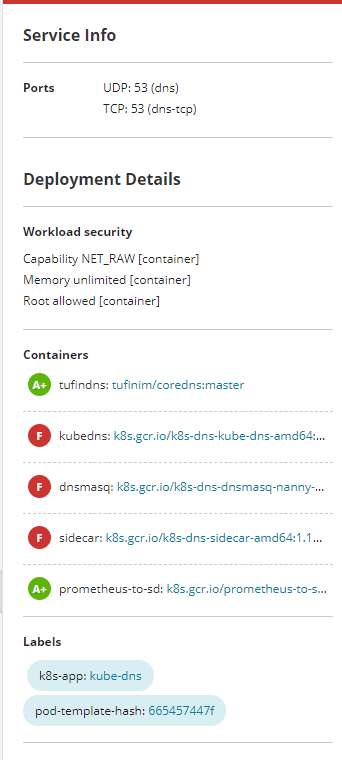
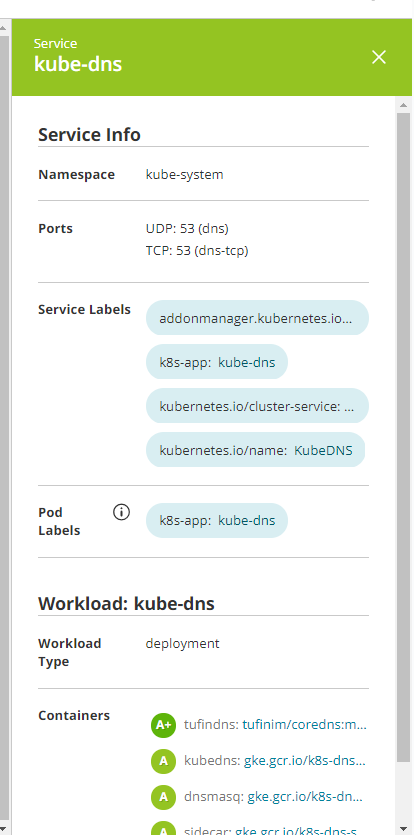
feature / epics / all ready for promote of next sunday

diff --git a/Content/Kubernetes/Services.htm b/Content/Kubernetes/Services.htm
@@ -9,7 +9,7 @@
         <MadCap:snippetBlock src="../Resources/TopicTemplates/Collateral/H2_Overview.flsnp" />
         <p>The services window displays all the services in your Kubernetes cluster from nodes to which <MadCap:variable name="local-orca.Product_S" /> has access:</p>
         <p>
-            <img src="../Kubernetes-Images/WindowServices2.png" class="ThumbnailPopup" />
+            <img src="../Kubernetes-Images/Screen_Services.png" class="ThumbnailPopup" />
         </p>
         <table style="mc-table-style: url('../Resources/TableStyles/PatternedRows.css');" class="TableStyle-PatternedRows" cellspacing="0">
             <col class="TableStyle-PatternedRows-Column-Regular" />
@@ -27,19 +27,19 @@
             <tbody>
                 <tr class="TableStyle-PatternedRows-Body-LightRows">
                     <td class="TableStyle-PatternedRows-BodyE-Regular-LightRows">Name</td>
-                    <td class="TableStyle-PatternedRows-BodyD-Regular-LightRows">name of the service</td>
+                    <td class="TableStyle-PatternedRows-BodyD-Regular-LightRows">Name of the service</td>
                 </tr>
                 <tr class="TableStyle-PatternedRows-Body-DarkRows">
                     <td class="TableStyle-PatternedRows-BodyE-Regular-DarkRows">Namespace</td>
-                    <td class="TableStyle-PatternedRows-BodyD-Regular-DarkRows">namespace in which the service is running</td>
+                    <td class="TableStyle-PatternedRows-BodyD-Regular-DarkRows">Namespace in which the service is running</td>
                 </tr>
                 <tr class="TableStyle-PatternedRows-Body-LightRows">
                     <td class="TableStyle-PatternedRows-BodyE-Regular-LightRows">Labels</td>
-                    <td class="TableStyle-PatternedRows-BodyD-Regular-LightRows">all labels defined for the service</td>
+                    <td class="TableStyle-PatternedRows-BodyD-Regular-LightRows">All labels defined for the service</td>
                 </tr>
                 <tr class="TableStyle-PatternedRows-Body-DarkRows">
                     <td class="TableStyle-PatternedRows-BodyE-Regular-DarkRows">Endpoints</td>
-                    <td class="TableStyle-PatternedRows-BodyD-Regular-DarkRows">all endpoints exposed by the service that go through an ingress controller</td>
+                    <td class="TableStyle-PatternedRows-BodyD-Regular-DarkRows">All endpoints exposed by the service that go through an ingress controller</td>
                 </tr>
                 <tr class="TableStyle-PatternedRows-Body-LightRows">
                     <td class="TableStyle-PatternedRows-BodyE-Regular-LightRows">Type</td>
@@ -55,11 +55,17 @@
                 </tr>
                 <tr class="TableStyle-PatternedRows-Body-DarkRows">
                     <td class="TableStyle-PatternedRows-BodyE-Regular-DarkRows">Ports</td>
-                    <td class="TableStyle-PatternedRows-BodyD-Regular-DarkRows">the service ports</td>
+                    <td class="TableStyle-PatternedRows-BodyD-Regular-DarkRows">The service ports</td>
                 </tr>
                 <tr class="TableStyle-PatternedRows-Body-LightRows">
-                    <td class="TableStyle-PatternedRows-BodyB-Regular-LightRows">Public IPs</td>
-                    <td class="TableStyle-PatternedRows-BodyA-Regular-LightRows">external IP addresses of the service </td>
+                    <td class="TableStyle-PatternedRows-BodyE-Regular-LightRows">Public IPs</td>
+                    <td class="TableStyle-PatternedRows-BodyD-Regular-LightRows">
+                        <p class="TableBodyText">External IP addresses of the service</p>
+                    </td>
+                </tr>
+                <tr class="TableStyle-PatternedRows-Body-DarkRows">
+                    <td class="TableStyle-PatternedRows-BodyB-Regular-DarkRows">Pod Labels</td>
+                    <td class="TableStyle-PatternedRows-BodyA-Regular-DarkRows">The labels that are specified in the service spec selector and therefore defined in all pods making up the service</td>
                 </tr>
             </tbody>
         </table>

diff --git a/Content/SecureCloud/WhatsNew.htm b/Content/SecureCloud/WhatsNew.htm
@@ -5,14 +5,18 @@
     </head>
     <body>
         <h1>What's New in <MadCap:variable name="local-iris.ProductName" /></h1>
-        <p class="SubHead1" MadCap:conditions="General.Exclude">Coming soon...</p>
+        <p class="SubHead1">28th February 2021</p>
         <table style="width: 100%;mc-table-style: url('../Resources/TableStyles/PatternedRows.css');" class="TableStyle-PatternedRows" cellspacing="0">
-            <col class="TableStyle-PatternedRows-Column-Regular" style="width: 237px;" MadCap:conditions="General.Exclude" />
-            <col class="TableStyle-PatternedRows-Column-Regular" MadCap:conditions="General.Exclude" />
+            <col class="TableStyle-PatternedRows-Column-Regular" style="width: 237px;" MadCap:conditions="" />
+            <col class="TableStyle-PatternedRows-Column-Regular" MadCap:conditions="" style="width: 397px;" />
+            <col class="TableStyle-PatternedRows-Column-Regular" MadCap:conditions="" />
             <thead>
                 <tr class="TableStyle-PatternedRows-Head-Header1">
                     <th class="TableStyle-PatternedRows-HeadE-Regular-Header1" style="font-weight: normal;">
                         <p class="TableHeading">Title</p>
+                    </th>
+                    <th class="TableStyle-PatternedRows-HeadE-Regular-Header1">
+                        <p class="TableHeading">How do I Get Here?</p>
                     </th>
                     <th class="TableStyle-PatternedRows-HeadD-Regular-Header1" style="font-weight: normal;">
                         <p class="TableHeading">Details</p>
@@ -21,14 +25,20 @@
             </thead>
             <tbody>
                 <tr class="TableStyle-PatternedRows-Body-LightRows">
-                    <td class="TableStyle-PatternedRows-BodyE-Regular-LightRows">sdfgsdfg</td>
-                    <td class="TableStyle-PatternedRows-BodyD-Regular-LightRows">
-                        <p>sdfgsdfg</p>
+                    <td class="TableStyle-PatternedRows-BodyE-Regular-LightRows"><MadCap:variable name="local.ProductName" /> RBAC </td>
+                    <td class="TableStyle-PatternedRows-BodyE-Regular-LightRows">
+                        <p>
+                            <MadCap:xref href="Users.htm">Users</MadCap:xref>
+                        </p>
                     </td>
+                    <td class="TableStyle-PatternedRows-BodyD-Regular-LightRows">Two additional roles added to view and manage <MadCap:variable name="local.Kubernetes" /> <MadCap:variable name="local.project" />s.</td>
                 </tr>
                 <tr class="TableStyle-PatternedRows-Body-DarkRows">
-                    <td class="TableStyle-PatternedRows-BodyB-Regular-DarkRows">sdfgsdfg</td>
-                    <td class="TableStyle-PatternedRows-BodyA-Regular-DarkRows">sdfsdfg</td>
+                    <td class="TableStyle-PatternedRows-BodyB-Regular-DarkRows">Pod labels</td>
+                    <td class="TableStyle-PatternedRows-BodyB-Regular-DarkRows"><a href="../Kubernetes/Services.htm">Services</a> and <a href="../Kubernetes/ServiceGraph.htm">Service Graph detail window</a> </td>
+                    <td class="TableStyle-PatternedRows-BodyA-Regular-DarkRows">
+                        <p>Pod labels (as defined in service spec selector) now shown</p>
+                    </td>
                 </tr>
             </tbody>
         </table>

diff --git a/Content/SecureCloud/Users.htm b/Content/SecureCloud/Users.htm
@@ -16,6 +16,8 @@
             <li>Global Admin - unlimited access to all <MadCap:variable name="local.ProductName" /> functions</li>
             <li>Global Viewer - view-only access to all <MadCap:variable name="local.ProductName" /> functions</li>
             <li>Cloud Account Viewer - view-only access to all or selected <MadCap:variable name="local.public cloud" /> <MadCap:variable name="local.Vendoraccount" />s </li>
+            <li>Cluster Owner - full management access to all or selected <MadCap:variable name="local.Kubernetes" /> <MadCap:variable name="local.project" />s</li>
+            <li>Cluster Viewer - view-only access to all or selected <MadCap:variable name="local.Kubernetes" /> <MadCap:variable name="local.project" />s</li>
         </ul>
         <MadCap:snippetBlock src="../Resources/TopicTemplates/Collateral/H2_Actions.flsnp" />
         <ul>
@@ -42,7 +44,8 @@
             </li>
             <li>
                 <p>Select a role </p>
-                <p>If role Cloud <span class="StatusOrValue">Account Viewer</span> is selected, you must specify at least one account to which the user will have access or specify <span class="StatusOrValue">All accounts</span>.</p>
+                <p>If role <b>Cloud </b><span class="StatusOrValue">Account Viewer</span> is selected, you must specify at least one account to which the user will have access or specify <span class="StatusOrValue">All accounts</span>.</p>
+                <p>If roles <span class="StatusOrValue">Cluster Viewer</span> or <span class="StatusOrValue">Cluster Owner</span> are selected, you must specify at least one <MadCap:variable name="local.project" /> to which the user will have access or specify <span class="StatusOrValue">All clusters</span>.</p>
             </li>
             <li>
                 <p>Click <span class="ScreenObject">Invite</span>. </p>
